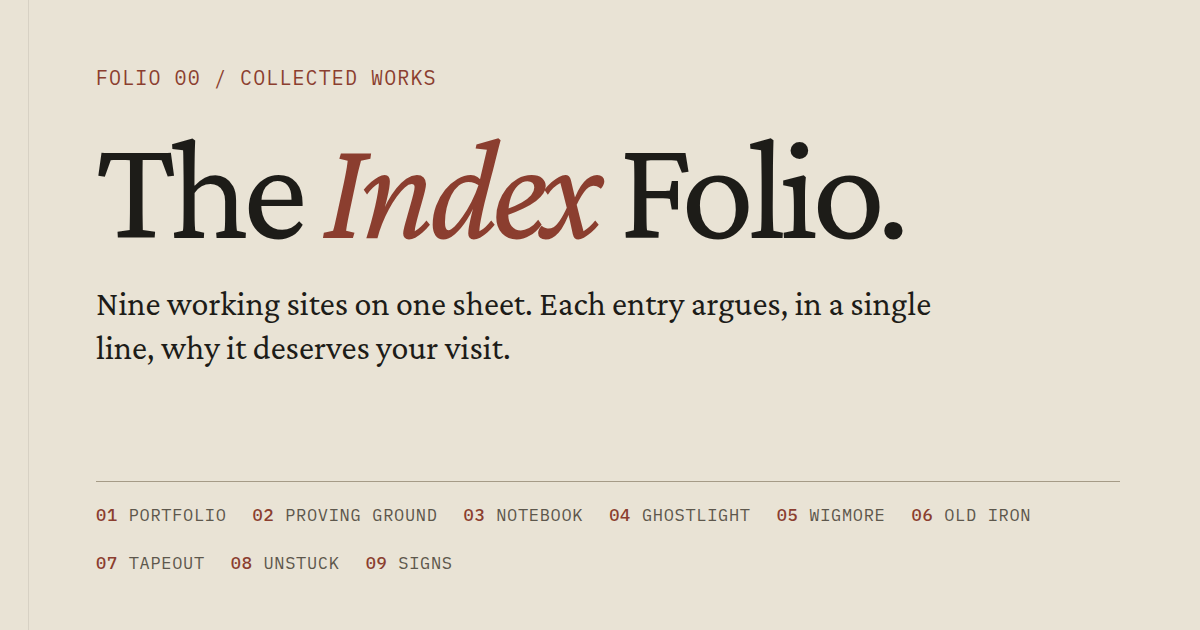
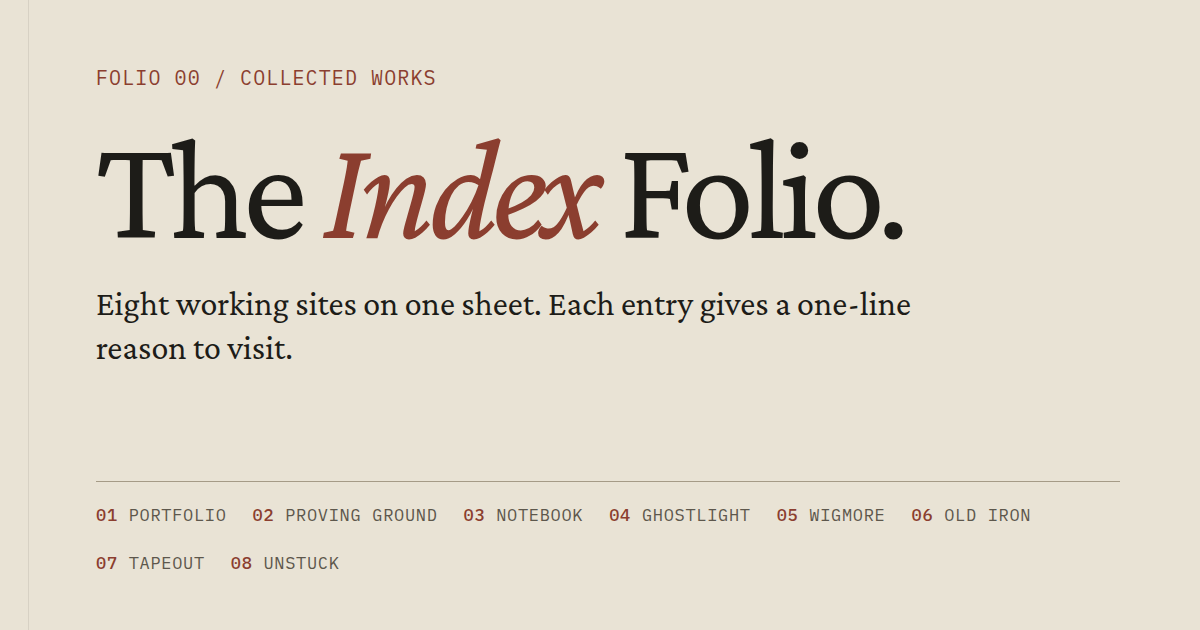
folio: index eight sites

Changed region(s): [[0.0925, 0.4524, 0.7708, 0.5127], [0.0617, 0.5429, 0.4317, 0.573], [0.3083, 0.8746, 0.37, 0.9048]]

diff --git a/index.html b/index.html
@@ -11,22 +11,22 @@
   <link rel="apple-touch-icon" href="apple-touch-icon.png" />
   <link rel="manifest" href="manifest.json" />
   <title>The Index Folio, Chris Dillinger</title>
-  <meta name="description" content="One page indexing every working site by Chris Dillinger: the RISC-V and kernel portfolio, the Proving Ground benches, GHOSTLIGHT red-team walkthroughs, Wigmore evidence charts, OLD IRON hardware retirement, TAPEOUT lean compute parts, UNSTUCK plain-words computer help, Signs semiotics, and the Notebook design language." />
+  <meta name="description" content="One page indexing every working site by Chris Dillinger: the RISC-V and kernel portfolio, the Proving Ground benches, GHOSTLIGHT red-team walkthroughs, Wigmore evidence charts, OLD IRON hardware retirement, TAPEOUT lean compute parts, UNSTUCK plain-words computer help, and the Notebook design language." />
   <link rel="canonical" href="https://dillingerstaffing.github.io/" />
   <meta property="og:title" content="The Index Folio, Chris Dillinger" />
-  <meta property="og:description" content="Nine working sites on one page." />
+  <meta property="og:description" content="Eight working sites on one page." />
   <meta property="og:type" content="website" />
   <meta property="og:url" content="https://dillingerstaffing.github.io/" />
   <meta property="og:image" content="https://dillingerstaffing.github.io/og-image.png" />
   <meta property="og:image:width" content="1200" />
   <meta property="og:image:height" content="630" />
-  <meta property="og:image:alt" content="The Index Folio: nine working sites, each with a one-line reason to visit." />
+  <meta property="og:image:alt" content="The Index Folio: eight working sites, each with a one-line reason to visit." />
   <meta property="og:site_name" content="The Index Folio" />
   <meta name="twitter:card" content="summary_large_image" />
   <meta name="twitter:title" content="The Index Folio, Chris Dillinger" />
-  <meta name="twitter:description" content="Nine working sites on one page." />
+  <meta name="twitter:description" content="Eight working sites on one page." />
   <meta name="twitter:image" content="https://dillingerstaffing.github.io/og-image.png" />
-  <meta name="twitter:image:alt" content="The Index Folio: nine working sites, each with a one-line reason to visit." />
+  <meta name="twitter:image:alt" content="The Index Folio: eight working sites, each with a one-line reason to visit." />
   <script type="application/ld+json">
   {
     "@context": "https://schema.org",
@@ -328,7 +328,7 @@
       <button class="control" data-premise="folio" aria-pressed="false">Folio order</button>
     </div>
     <div class="field-wrap">
-      <svg id="field" viewBox="0 0 680 440" role="img" aria-label="Diagram of the nine sites. The most updated sites sit nearest the center, drawn darkest and largest."></svg>
+      <svg id="field" viewBox="0 0 680 440" role="img" aria-label="Diagram of the eight sites. The most updated sites sit nearest the center, drawn darkest and largest."></svg>
     </div>
     <p class="verdict-line" id="verdictLine" aria-live="polite"></p>
   </section>
@@ -363,7 +363,7 @@
     </div>
     <div class="days" id="days"></div>
     <p class="readout" id="dayReadout" aria-live="polite">Tap a day for its exact count.</p>
-    <p class="verdict-line">Portfolio stayed active 11 of the last 28 days, more than any other site. <span class="m">394 commits.</span></p>
+    <p class="verdict-line">Portfolio stayed active 11 of the last 28 days, more than any other site. <span class="m">397 commits.</span></p>
   </section>
 
   <section class="section" id="rhythm-s">
@@ -375,18 +375,18 @@
       <button class="control" data-scale="dowScale" data-val="persite" aria-pressed="false">Per site</button>
     </div>
     <div class="mults" id="rhythm"></div>
-    <p class="verdict-line">87% of all commits land Monday to Friday. <span class="m">The loops work weekdays; weekends go quiet.</span></p>
+    <p class="verdict-line">87% of all commits land Monday to Friday.</p>
   </section>
 
   
   <section class="section" id="hours-s">
     <p class="kicker">06 · The hours</p>
-    <h2>All hours, no office.</h2>
+    <h2>Every hour of the day.</h2>
     <p class="key-line">Hour of day, UTC. Darker means more commits.</p>
     <div class="hours" id="hours"></div>
     <div class="hticks-wrap"><div class="hticks" aria-hidden="true"><span style="grid-column:1">00</span><span style="grid-column:7">06</span><span style="grid-column:13">12</span><span style="grid-column:19">18</span></div></div>
     <p class="readout" id="hourReadout" aria-live="polite">Tap an hour for its exact count.</p>
-    <p class="verdict-line">Commits land in every hour of the day. <span class="m">16:00 UTC is the single busiest hour.</span></p>
+    <p class="verdict-line">Commits land in every hour of the day. <span class="m">06:00 UTC is the single busiest hour.</span></p>
   </section>
 
 <section class="section" id="inventory-s">
@@ -399,9 +399,9 @@
   <section class="section" id="ledger-s">
     <p class="kicker">08 · The ledger</p>
     <h2>Share of the month.</h2>
-    <div class="lbar" id="lbar" role="img" aria-label="Share of 1004 commits in the last 28 days by site"></div>
+    <div class="lbar" id="lbar" role="img" aria-label="Share of 990 commits in the last 28 days by site"></div>
     <div class="lkey" id="lkey"></div>
-    <p class="verdict-line">Portfolio and Proving Ground together take 59% of the month. <span class="m">1004 commits across nine sites.</span></p>
+    <p class="verdict-line">Portfolio and Proving Ground together take 61% of the month. <span class="m">990 commits across eight sites.</span></p>
   </section>
 
   <section class="section" id="register-s">
@@ -412,6 +412,7 @@
   <section class="section" id="revision">
     <p class="kicker">10 · Revision</p>
     <h2>Revision.</h2>
+    <p class="rev"><span class="rev-date">2026-09-19</span>The index covers eight sites.</p>
     <p class="rev"><span class="rev-date">2026-09-18</span>Interactivity pass: every display is now linked. Tap any site to highlight it across every display and open its inspector; the measure takes four quantities; day, weekday, and hour cells answer with exact counts; a new hour-of-day section shows when the work actually lands.</p>
     <p class="rev"><span class="rev-date">2026-09-18</span>The measure widened: 28-day daily calendars, weekday rhythm, a content inventory, and a share-of-attention ledger join the twelve-week bars. <s>Twelve-week bars and sparklines carried the whole measure.</s></p>
     <p class="rev"><span class="rev-date">2026-09-18</span><s>Quiet sites were labeled settled and kept.</s> Emphasis now follows measured update activity. A quiet site is de-emphasized, not settled.</p>
@@ -420,7 +421,7 @@
   <section class="section" id="provenance">
     <p class="kicker">11 · Provenance</p>
     <h2>Provenance.</h2>
-    <p class="quiet" style="max-width:46rem">Commit counts: GitHub repository statistics (commit activity and punch card endpoints), measured 2026-09-19. Content units counted from the live pages the same day. All nine repositories were created between Sep 8 and Sep 17, 2026, so every commit falls inside the 28-day window. Push times UTC. Hour-of-day totals come from each repository’s punch-card endpoint; hours are UTC.</p>
+    <p class="quiet" style="max-width:46rem">Commit counts: GitHub repository statistics (commit activity and punch card endpoints), measured 2026-09-19. Content units counted from the live pages the same day. All eight repositories were created between Sep 8 and Sep 17, 2026, so every commit falls inside the 28-day window. Push times UTC. Hour-of-day totals come from each repository’s punch-card endpoint; hours are UTC.</p>
     <ul class="source-list" id="sourceList"></ul>
   </section>
 
@@ -457,7 +458,7 @@
 (function () {
   "use strict";
   var DATA_DATE = Date.parse('2026-09-19T09:15:54Z');
-  var SITES = [{"folio":"01","name":"Portfolio","slug":"portfolio","url":"https://dillingerstaffing.github.io/portfolio/","evidence":"Proof cards across five layers (ISA, microarch, firmware, kernel, algorithm); a blog that teaches one atomic idea per post; a curated reading wire. New Proving Ground benches graduate into portfolio proof cards.","weekly":[0,0,0,0,0,0,0,0,0,0,286,111],"daily":[0,0,0,0,0,0,0,0,0,0,0,0,0,0,0,0,0,26,43,131,86,19,14,13,22,30,6,7],"dow":[9,18,27,66,114,105,58],"c28":397,"repo_kb":23974,"page_kb":400,"pushed":"2026-09-19T08:56:44Z","content_n":187,"content_unit":"projects","content_note":"37 articles","hourly":[27,12,10,11,16,13,15,20,18,12,19,11,19,13,9,26,21,15,16,23,19,17,16,19],"peak_hour":0,"best_day_date":"Sep 11","best_day_commits":131},{"folio":"02","name":"Proving Ground","slug":"proving-ground","url":"https://dillingerstaffing.github.io/proving-ground/","evidence":"Seventy-two interactive benches across computer architecture, analog and power electronics, and bench craft, one per day.","weekly":[0,0,0,0,0,0,0,0,0,0,121,81],"daily":[0,0,0,0,0,0,0,0,0,0,0,0,0,0,0,0,0,0,31,57,33,5,9,2,29,9,19,8],"dow":[10,3,25,27,66,58,13],"c28":202,"repo_kb":8663,"page_kb":106,"pushed":"2026-09-19T00:55:31Z","content_n":72,"content_unit":"benches","content_note":"one per day","hourly":[9,8,5,5,5,10,9,4,14,12,8,7,6,10,22,1,12,6,15,5,9,9,3,8],"peak_hour":14,"best_day_date":"Sep 11","best_day_commits":57},{"folio":"03","name":"Notebook","slug":"notebook","url":"https://dillingerstaffing.github.io/notebook/","evidence":"The complete language: material grammar, composition grammar, nine reusable patterns, information flow, the quality gate, and the build audit.","weekly":[0,0,0,0,0,0,0,0,0,0,0,3],"daily":[0,0,0,0,0,0,0,0,0,0,0,0,0,0,0,0,0,0,0,0,0,0,0,0,0,2,1,0],"dow":[0,0,0,0,2,1,0],"c28":3,"repo_kb":295,"page_kb":292,"pushed":"2026-09-18T00:08:32Z","content_n":9,"content_unit":"patterns","content_note":"the reusable nine","hourly":[0,0,0,0,0,0,0,0,0,0,0,0,0,0,0,0,0,0,0,0,3,0,0,0],"peak_hour":20,"best_day_date":"Sep 17","best_day_commits":2},{"folio":"04","name":"GHOSTLIGHT","slug":"ghostlight","url":"https://dillingerstaffing.github.io/ghostlight/","evidence":"Walkthroughs GH-001 through GH-010 with real screen recordings, mapped to MITRE ATT&CK TA0005 and D3FEND defenders.","weekly":[0,0,0,0,0,0,0,0,0,0,0,40],"daily":[0,0,0,0,0,0,0,0,0,0,0,0,0,0,0,0,0,0,0,0,0,0,0,8,15,11,6,0],"dow":[0,0,23,7,10,0,0],"c28":40,"repo_kb":9361,"page_kb":24,"pushed":"2026-09-17T19:47:38Z","content_n":10,"content_unit":"walkthroughs","content_note":"GH-001 to GH-010","hourly":[2,2,0,0,1,5,8,0,4,4,2,0,1,3,2,4,0,0,0,1,0,0,0,1],"peak_hour":6,"best_day_date":"Sep 16","best_day_commits":15},{"folio":"05","name":"Wigmore","slug":"wigmore","url":"https://dillingerstaffing.github.io/wigmore/","evidence":"A chart builder with strict Wigmore schema validation, a built-in example, and a localStorage collection.","weekly":[0,0,0,0,0,0,0,0,0,0,0,32],"daily":[0,0,0,0,0,0,0,0,0,0,0,0,0,0,0,0,0,0,0,0,0,0,0,0,26,6,0,0],"dow":[0,0,22,8,2,0,0],"c28":32,"repo_kb":640,"page_kb":101,"pushed":"2026-09-17T01:27:24Z","content_n":1,"content_unit":"chart builder","content_note":"strict schema","hourly":[1,1,0,0,1,6,0,0,0,0,0,0,0,2,10,6,0,1,3,0,0,0,0,1],"peak_hour":14,"best_day_date":"Sep 16","best_day_commits":26},{"folio":"06","name":"OLD IRON","slug":"old-iron","url":"https://dillingerstaffing.github.io/old-iron/","evidence":"A terse service page: what is picked up, how wiping is certified per serial, how logistics are insured.","weekly":[0,0,0,0,0,0,0,0,0,0,70,66],"daily":[0,0,0,0,0,0,0,0,0,0,0,0,0,0,0,0,0,0,35,26,9,11,19,6,14,12,4,0],"dow":[12,15,15,32,35,20,7],"c28":136,"repo_kb":1916,"page_kb":64,"pushed":"2026-09-18T06:32:58Z","content_n":1,"content_unit":"service page","content_note":"pickup and wiping","hourly":[4,5,3,3,3,6,7,6,9,5,9,4,8,10,7,4,8,5,8,6,5,4,4,3],"peak_hour":13,"best_day_date":"Sep 10","best_day_commits":35},{"folio":"07","name":"TAPEOUT","slug":"tapeout","url":"https://dillingerstaffing.github.io/tapeout/","evidence":"A lean distribution page with no fake inventory, plus an open lab log of real progress.","weekly":[0,0,0,0,0,0,0,0,0,0,71,77],"daily":[0,0,0,0,0,0,0,0,0,0,0,0,0,0,0,0,0,0,36,28,7,8,18,5,19,17,6,4],"dow":[12,12,15,41,40,22,6],"c28":148,"repo_kb":3375,"page_kb":67,"pushed":"2026-09-18T23:55:59Z","content_n":1,"content_unit":"service page","content_note":"open lab log","hourly":[3,4,2,1,3,6,11,6,8,4,9,2,8,11,7,6,10,6,9,4,7,8,3,10],"peak_hour":6,"best_day_date":"Sep 10","best_day_commits":36},{"folio":"08","name":"UNSTUCK","slug":"unstuck","url":"https://dillingerstaffing.github.io/unstuck/","evidence":"A one-page card: a plain-language fix list, a three-step process, tap-to-call.","weekly":[0,0,0,0,0,0,0,0,0,0,0,32],"daily":[0,0,0,0,0,0,0,0,0,0,0,0,0,0,0,0,0,0,0,0,0,0,6,1,8,8,6,3],"dow":[4,2,7,5,6,8,0],"c28":32,"repo_kb":243,"page_kb":29,"pushed":"2026-09-18T23:40:12Z","content_n":1,"content_unit":"service page","content_note":"plain words","hourly":[5,2,1,0,2,0,7,0,2,0,1,0,6,1,0,0,0,0,2,0,1,0,0,2],"peak_hour":6,"best_day_date":"Sep 16","best_day_commits":8},{"folio":"09","name":"Signs","slug":"signs","url":"https://dillingerstaffing.github.io/signs/","evidence":"An experimental text-to-semiotics instrument using Peirce's own terms throughout.","weekly":[0,0,0,0,0,0,0,0,0,0,0,25],"daily":[0,0,0,0,0,0,0,0,0,0,0,0,0,0,0,0,0,0,0,0,0,0,0,0,2,23,0,0],"dow":[0,0,2,20,3,0,0],"c28":25,"repo_kb":460,"page_kb":83,"pushed":"2026-09-17T01:27:14Z","content_n":1,"content_unit":"instrument","content_note":"text to semiotics","hourly":[1,1,0,0,0,5,1,0,0,0,0,0,0,0,0,6,8,0,0,0,0,2,0,1],"peak_hour":16,"best_day_date":"Sep 17","best_day_commits":23}];
+  var SITES = [{"folio":"01","name":"Portfolio","slug":"portfolio","url":"https://dillingerstaffing.github.io/portfolio/","evidence":"Proof cards across five layers (ISA, microarch, firmware, kernel, algorithm); a blog that teaches one atomic idea per post; a curated reading wire. New Proving Ground benches graduate into portfolio proof cards.","weekly":[0,0,0,0,0,0,0,0,0,0,286,111],"daily":[0,0,0,0,0,0,0,0,0,0,0,0,0,0,0,0,0,26,43,131,86,19,14,13,22,30,6,7],"dow":[9,18,27,66,114,105,58],"c28":397,"repo_kb":23974,"page_kb":400,"pushed":"2026-09-19T08:56:44Z","content_n":187,"content_unit":"projects","content_note":"37 articles","hourly":[27,12,10,11,16,13,15,20,18,12,19,11,19,13,9,26,21,15,16,23,19,17,16,19],"peak_hour":0,"best_day_date":"Sep 11","best_day_commits":131},{"folio":"02","name":"Proving Ground","slug":"proving-ground","url":"https://dillingerstaffing.github.io/proving-ground/","evidence":"Seventy-two interactive benches across computer architecture, analog and power electronics, and bench craft, one per day.","weekly":[0,0,0,0,0,0,0,0,0,0,121,81],"daily":[0,0,0,0,0,0,0,0,0,0,0,0,0,0,0,0,0,0,31,57,33,5,9,2,29,9,19,8],"dow":[10,3,25,27,66,58,13],"c28":202,"repo_kb":8663,"page_kb":106,"pushed":"2026-09-19T00:55:31Z","content_n":72,"content_unit":"benches","content_note":"one per day","hourly":[9,8,5,5,5,10,9,4,14,12,8,7,6,10,22,1,12,6,15,5,9,9,3,8],"peak_hour":14,"best_day_date":"Sep 11","best_day_commits":57},{"folio":"03","name":"Notebook","slug":"notebook","url":"https://dillingerstaffing.github.io/notebook/","evidence":"The complete language: material grammar, composition grammar, nine reusable patterns, information flow, the quality gate, and the build audit.","weekly":[0,0,0,0,0,0,0,0,0,0,0,3],"daily":[0,0,0,0,0,0,0,0,0,0,0,0,0,0,0,0,0,0,0,0,0,0,0,0,0,2,1,0],"dow":[0,0,0,0,2,1,0],"c28":3,"repo_kb":295,"page_kb":292,"pushed":"2026-09-18T00:08:32Z","content_n":9,"content_unit":"patterns","content_note":"the reusable nine","hourly":[0,0,0,0,0,0,0,0,0,0,0,0,0,0,0,0,0,0,0,0,3,0,0,0],"peak_hour":20,"best_day_date":"Sep 17","best_day_commits":2},{"folio":"04","name":"GHOSTLIGHT","slug":"ghostlight","url":"https://dillingerstaffing.github.io/ghostlight/","evidence":"Walkthroughs GH-001 through GH-010 with real screen recordings, mapped to MITRE ATT&CK TA0005 and D3FEND defenders.","weekly":[0,0,0,0,0,0,0,0,0,0,0,40],"daily":[0,0,0,0,0,0,0,0,0,0,0,0,0,0,0,0,0,0,0,0,0,0,0,8,15,11,6,0],"dow":[0,0,23,7,10,0,0],"c28":40,"repo_kb":9361,"page_kb":24,"pushed":"2026-09-17T19:47:38Z","content_n":10,"content_unit":"walkthroughs","content_note":"GH-001 to GH-010","hourly":[2,2,0,0,1,5,8,0,4,4,2,0,1,3,2,4,0,0,0,1,0,0,0,1],"peak_hour":6,"best_day_date":"Sep 16","best_day_commits":15},{"folio":"05","name":"Wigmore","slug":"wigmore","url":"https://dillingerstaffing.github.io/wigmore/","evidence":"A chart builder with strict Wigmore schema validation, a built-in example, and a localStorage collection.","weekly":[0,0,0,0,0,0,0,0,0,0,0,32],"daily":[0,0,0,0,0,0,0,0,0,0,0,0,0,0,0,0,0,0,0,0,0,0,0,0,26,6,0,0],"dow":[0,0,22,8,2,0,0],"c28":32,"repo_kb":640,"page_kb":101,"pushed":"2026-09-17T01:27:24Z","content_n":1,"content_unit":"chart builder","content_note":"strict schema","hourly":[1,1,0,0,1,6,0,0,0,0,0,0,0,2,10,6,0,1,3,0,0,0,0,1],"peak_hour":14,"best_day_date":"Sep 16","best_day_commits":26},{"folio":"06","name":"OLD IRON","slug":"old-iron","url":"https://dillingerstaffing.github.io/old-iron/","evidence":"A terse service page: what is picked up, how wiping is certified per serial, how logistics are insured.","weekly":[0,0,0,0,0,0,0,0,0,0,70,66],"daily":[0,0,0,0,0,0,0,0,0,0,0,0,0,0,0,0,0,0,35,26,9,11,19,6,14,12,4,0],"dow":[12,15,15,32,35,20,7],"c28":136,"repo_kb":1916,"page_kb":64,"pushed":"2026-09-18T06:32:58Z","content_n":1,"content_unit":"service page","content_note":"pickup and wiping","hourly":[4,5,3,3,3,6,7,6,9,5,9,4,8,10,7,4,8,5,8,6,5,4,4,3],"peak_hour":13,"best_day_date":"Sep 10","best_day_commits":35},{"folio":"07","name":"TAPEOUT","slug":"tapeout","url":"https://dillingerstaffing.github.io/tapeout/","evidence":"A lean distribution page with no fake inventory, plus an open lab log of real progress.","weekly":[0,0,0,0,0,0,0,0,0,0,71,77],"daily":[0,0,0,0,0,0,0,0,0,0,0,0,0,0,0,0,0,0,36,28,7,8,18,5,19,17,6,4],"dow":[12,12,15,41,40,22,6],"c28":148,"repo_kb":3375,"page_kb":67,"pushed":"2026-09-18T23:55:59Z","content_n":1,"content_unit":"service page","content_note":"open lab log","hourly":[3,4,2,1,3,6,11,6,8,4,9,2,8,11,7,6,10,6,9,4,7,8,3,10],"peak_hour":6,"best_day_date":"Sep 10","best_day_commits":36},{"folio":"08","name":"UNSTUCK","slug":"unstuck","url":"https://dillingerstaffing.github.io/unstuck/","evidence":"A one-page card: a plain-language fix list, a three-step process, tap-to-call.","weekly":[0,0,0,0,0,0,0,0,0,0,0,32],"daily":[0,0,0,0,0,0,0,0,0,0,0,0,0,0,0,0,0,0,0,0,0,0,6,1,8,8,6,3],"dow":[4,2,7,5,6,8,0],"c28":32,"repo_kb":243,"page_kb":29,"pushed":"2026-09-18T23:40:12Z","content_n":1,"content_unit":"service page","content_note":"plain words","hourly":[5,2,1,0,2,0,7,0,2,0,1,0,6,1,0,0,0,0,2,0,1,0,0,2],"peak_hour":6,"best_day_date":"Sep 16","best_day_commits":8}];
   var MAXW = Math.max.apply(null, SITES.map(function (s) { return Math.max.apply(null, s.weekly); }));
 
   SITES.forEach(function (s) {
@@ -541,11 +542,11 @@
     });
     out += '<line x1="' + (CX - 225) + '" y1="' + CY + '" x2="' + (CX + 225) + '" y2="' + CY + '" stroke="var(--graphite)" stroke-width="1" opacity="0.3"/>';
     out += '<line x1="' + CX + '" y1="' + (CY - 205) + '" x2="' + CX + '" y2="' + (CY + 205) + '" stroke="var(--graphite)" stroke-width="1" opacity="0.3"/>';
-    var centerWord = state.premise === 'activity' ? 'MOST UPDATED' : state.premise === 'recency' ? 'MOST RECENT' : 'FOLIO 01-09';
+    var centerWord = state.premise === 'activity' ? 'MOST UPDATED' : state.premise === 'recency' ? 'MOST RECENT' : 'FOLIO 01-08';
     out += '<text x="' + CX + '" y="' + (CY + 4) + '" text-anchor="middle" font-family="var(--font-technical)" font-size="9" letter-spacing="0.08em" fill="var(--graphite)">' + centerWord + '</text>';
     order.forEach(function (s, i) {
       var ang = (-90 + i * 137.5) * Math.PI / 180;
-      var rr = 36 + i * (168 / 8);
+      var rr = 36 + i * (168 / 7);
       var x = CX + rr * Math.cos(ang), y = CY + rr * Math.sin(ang);
       var nr = nodeR(s);
       var style;
@@ -578,7 +579,7 @@
       var p = top.pushed.slice(0, 16).replace('T', ' ');
       verdictLine.innerHTML = top.name + ' was touched most recently: <span class="m">pushed ' + p + ' UTC.</span>';
     } else {
-      verdictLine.innerHTML = 'Folio order: <span class="m">nine sites, 01 to 09.</span>';
+      verdictLine.innerHTML = 'Folio order: <span class="m">eight sites, 01 to 08.</span>';
     }
   }
 

diff --git a/build-folio.py b/build-folio.py
@@ -34,9 +34,6 @@ META = {
  'unstuck':        dict(folio='08', name='UNSTUCK', slug='unstuck',
    url='https://dillingerstaffing.github.io/unstuck/',
    evidence='A one-page card: a plain-language fix list, a three-step process, tap-to-call.'),
- 'signs':          dict(folio='09', name='Signs', slug='signs',
-   url='https://dillingerstaffing.github.io/signs/',
-   evidence="An experimental text-to-semiotics instrument using Peirce's own terms throughout."),
 }
 
 CONTENT = {
@@ -44,7 +41,6 @@ CONTENT = {
  'notebook': (9, 'patterns', 'the reusable nine'), 'ghostlight': (10, 'walkthroughs', 'GH-001 to GH-010'),
  'wigmore': (1, 'chart builder', 'strict schema'), 'old-iron': (1, 'service page', 'pickup and wiping'),
  'tapeout': (1, 'service page', 'open lab log'), 'unstuck': (1, 'service page', 'plain words'),
- 'signs': (1, 'instrument', 'text to semiotics'),
 }
 
 sites = []
@@ -86,22 +82,22 @@ html = '''<!doctype html>
   <link rel="apple-touch-icon" href="apple-touch-icon.png" />
   <link rel="manifest" href="manifest.json" />
   <title>The Index Folio, Chris Dillinger</title>
-  <meta name="description" content="One page indexing every working site by Chris Dillinger: the RISC-V and kernel portfolio, the Proving Ground benches, GHOSTLIGHT red-team walkthroughs, Wigmore evidence charts, OLD IRON hardware retirement, TAPEOUT lean compute parts, UNSTUCK plain-words computer help, Signs semiotics, and the Notebook design language." />
+  <meta name="description" content="One page indexing every working site by Chris Dillinger: the RISC-V and kernel portfolio, the Proving Ground benches, GHOSTLIGHT red-team walkthroughs, Wigmore evidence charts, OLD IRON hardware retirement, TAPEOUT lean compute parts, UNSTUCK plain-words computer help, and the Notebook design language." />
   <link rel="canonical" href="https://dillingerstaffing.github.io/" />
   <meta property="og:title" content="The Index Folio, Chris Dillinger" />
-  <meta property="og:description" content="Nine working sites on one page." />
+  <meta property="og:description" content="Eight working sites on one page." />
   <meta property="og:type" content="website" />
   <meta property="og:url" content="https://dillingerstaffing.github.io/" />
   <meta property="og:image" content="https://dillingerstaffing.github.io/og-image.png" />
   <meta property="og:image:width" content="1200" />
   <meta property="og:image:height" content="630" />
-  <meta property="og:image:alt" content="The Index Folio: nine working sites, each with a one-line reason to visit." />
+  <meta property="og:image:alt" content="The Index Folio: eight working sites, each with a one-line reason to visit." />
   <meta property="og:site_name" content="The Index Folio" />
   <meta name="twitter:card" content="summary_large_image" />
   <meta name="twitter:title" content="The Index Folio, Chris Dillinger" />
-  <meta name="twitter:description" content="Nine working sites on one page." />
+  <meta name="twitter:description" content="Eight working sites on one page." />
   <meta name="twitter:image" content="https://dillingerstaffing.github.io/og-image.png" />
-  <meta name="twitter:image:alt" content="The Index Folio: nine working sites, each with a one-line reason to visit." />
+  <meta name="twitter:image:alt" content="The Index Folio: eight working sites, each with a one-line reason to visit." />
   <script type="application/ld+json">
   {
     "@context": "https://schema.org",
@@ -345,7 +341,7 @@ html = '''<!doctype html>
       <button class="control" data-premise="folio" aria-pressed="false">Folio order</button>
     </div>
     <div class="field-wrap">
-      <svg id="field" viewBox="0 0 680 440" role="img" aria-label="Diagram of the nine sites. The most updated sites sit nearest the center, drawn darkest and largest."></svg>
+      <svg id="field" viewBox="0 0 680 440" role="img" aria-label="Diagram of the eight sites. The most updated sites sit nearest the center, drawn darkest and largest."></svg>
     </div>
     <p class="verdict-line" id="verdictLine" aria-live="polite"></p>
   </section>
@@ -407,7 +403,7 @@ html = '''<!doctype html>
   <section class="section" id="provenance">
     <p class="kicker">10 · Provenance</p>
     <h2>Provenance.</h2>
-    <p class="quiet" style="max-width:46rem">Commit counts: GitHub repository statistics (commit activity and punch card endpoints), measured 2026-09-18. Content units counted from the live pages the same day. All nine repositories were created between Sep 8 and Sep 17, 2026, so every commit falls inside the 28-day window. Push times UTC.</p>
+    <p class="quiet" style="max-width:46rem">Commit counts: GitHub repository statistics (commit activity and punch card endpoints), measured 2026-09-18. Content units counted from the live pages the same day. All eight repositories were created between Sep 8 and Sep 17, 2026, so every commit falls inside the 28-day window. Push times UTC.</p>
     <ul class="source-list" id="sourceList"></ul>
   </section>
 
@@ -470,11 +466,11 @@ html = '''<!doctype html>
     });
     out += '<line x1="' + (CX - 225) + '" y1="' + CY + '" x2="' + (CX + 225) + '" y2="' + CY + '" stroke="var(--graphite)" stroke-width="1" opacity="0.3"/>';
     out += '<line x1="' + CX + '" y1="' + (CY - 205) + '" x2="' + CX + '" y2="' + (CY + 205) + '" stroke="var(--graphite)" stroke-width="1" opacity="0.3"/>';
-    var centerWord = premise === 'activity' ? 'MOST UPDATED' : premise === 'recency' ? 'MOST RECENT' : 'FOLIO 01-09';
+    var centerWord = premise === 'activity' ? 'MOST UPDATED' : premise === 'recency' ? 'MOST RECENT' : 'FOLIO 01-08';
     out += '<text x="' + CX + '" y="' + (CY + 4) + '" text-anchor="middle" font-family="var(--font-technical)" font-size="9" letter-spacing="0.08em" fill="var(--graphite)">' + centerWord + '</text>';
     order.forEach(function (s, i) {
       var ang = (-90 + i * 137.5) * Math.PI / 180;
-      var rr = 36 + i * (168 / 8);
+      var rr = 36 + i * (168 / 7);
       var x = CX + rr * Math.cos(ang), y = CY + rr * Math.sin(ang);
       var nr = nodeR(s);
       var style;
@@ -504,7 +500,7 @@ html = '''<!doctype html>
       var p = top.pushed.slice(0, 16).replace('T', ' ');
       verdictLine.innerHTML = top.name + ' was touched most recently: <span class="m">pushed ' + p + ' UTC.</span>';
     } else {
-      verdictLine.innerHTML = 'Folio order: <span class="m">nine sites, 01 to 09.</span>';
+      verdictLine.innerHTML = 'Folio order: <span class="m">eight sites, 01 to 08.</span>';
     }
   }
 
@@ -693,7 +689,7 @@ html = html.replace('__INV_VERDICT__',
     '%s ships the most content: <span class="m">%s and %s.</span>'
     % (top_content['name'], _plural(top_content['content_n'], top_content['content_unit']), CONTENT['portfolio'][2]))
 html = html.replace('__LEDGER_VERDICT__',
-    '%s and %s together take %d%% of the month. <span class="m">%d commits across nine sites.</span>'
+    '%s and %s together take %d%% of the month. <span class="m">%d commits across eight sites.</span>'
     % (top2[0]['name'], top2[1]['name'], top2_pct, tot28))
 html = html.replace('__LEDGER_ARIA__',
     'Share of %d commits in the last 28 days by site' % tot28)

diff --git a/upgrade-folio.py b/upgrade-folio.py
@@ -121,11 +121,11 @@ NEW_JS = r"""(function () {
     });
     out += '<line x1="' + (CX - 225) + '" y1="' + CY + '" x2="' + (CX + 225) + '" y2="' + CY + '" stroke="var(--graphite)" stroke-width="1" opacity="0.3"/>';
     out += '<line x1="' + CX + '" y1="' + (CY - 205) + '" x2="' + CX + '" y2="' + (CY + 205) + '" stroke="var(--graphite)" stroke-width="1" opacity="0.3"/>';
-    var centerWord = state.premise === 'activity' ? 'MOST UPDATED' : state.premise === 'recency' ? 'MOST RECENT' : 'FOLIO 01-09';
+    var centerWord = state.premise === 'activity' ? 'MOST UPDATED' : state.premise === 'recency' ? 'MOST RECENT' : 'FOLIO 01-08';
     out += '<text x="' + CX + '" y="' + (CY + 4) + '" text-anchor="middle" font-family="var(--font-technical)" font-size="9" letter-spacing="0.08em" fill="var(--graphite)">' + centerWord + '</text>';
     order.forEach(function (s, i) {
       var ang = (-90 + i * 137.5) * Math.PI / 180;
-      var rr = 36 + i * (168 / 8);
+      var rr = 36 + i * (168 / 7);
       var x = CX + rr * Math.cos(ang), y = CY + rr * Math.sin(ang);
       var nr = nodeR(s);
       var style;
@@ -157,7 +157,7 @@ NEW_JS = r"""(function () {
       var p = top.pushed.slice(0, 16).replace('T', ' ');
       verdictLine.innerHTML = top.name + ' was touched most recently: <span class="m">pushed ' + p + ' UTC.</span>';
     } else {
-      verdictLine.innerHTML = 'Folio order: <span class="m">nine sites, 01 to 09.</span>';
+      verdictLine.innerHTML = 'Folio order: <span class="m">eight sites, 01 to 08.</span>';
     }
   }
 
